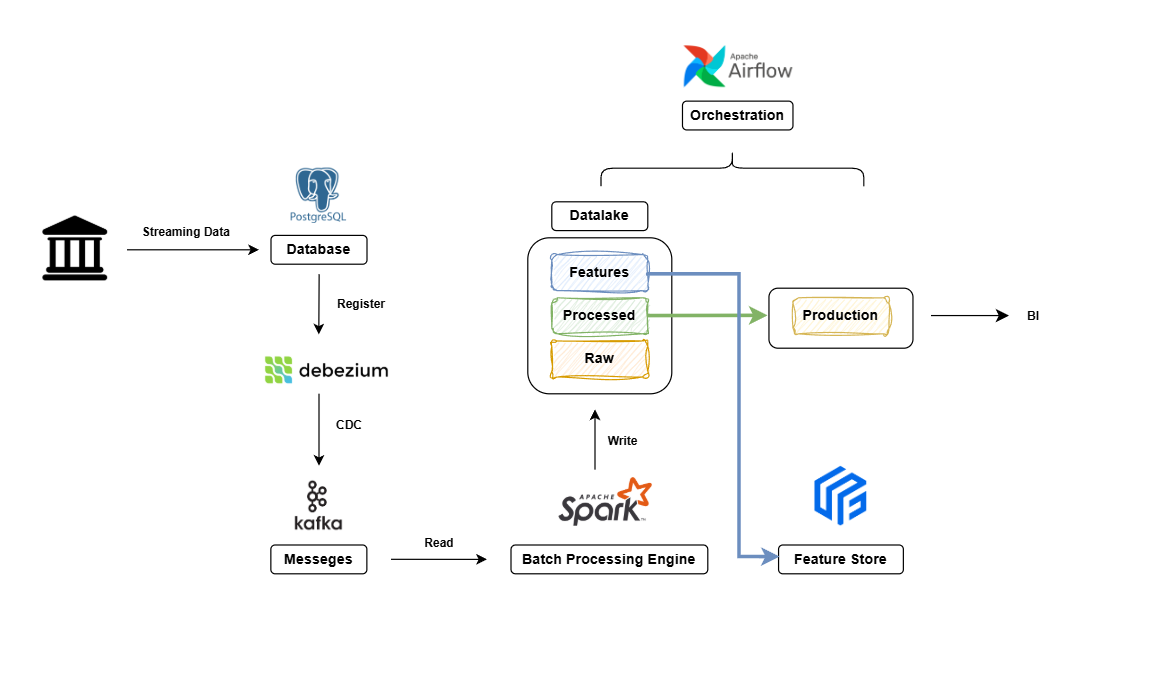
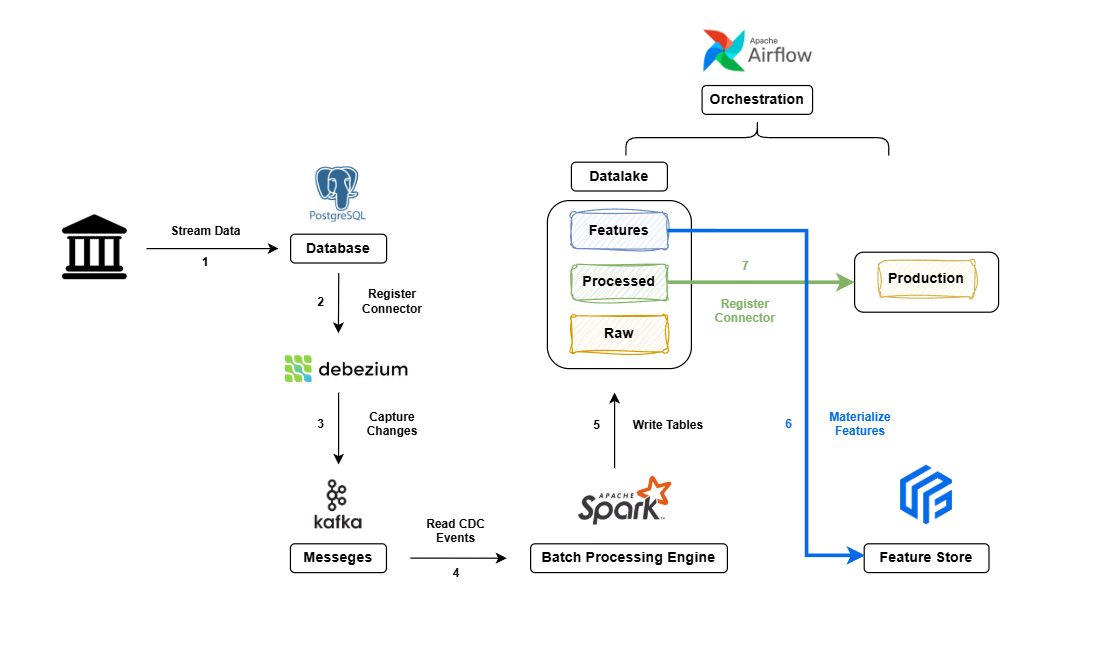
Update new data flow and fixing feature store

diff --git a/scripts/3_2_fs_get_features.py b/scripts/3_2_fs_get_features.py
@@ -4,11 +4,14 @@ from pathlib import Path
 import pandas as pd
 from utils import init_spark
 
+# Init Spark session
+spark = init_spark("Feast_Demo")
+
 # Initialize feature store (only once)
 repo_path = Path(os.getcwd()).resolve().parent / "feature_store"
 fs = FeatureStore(repo_path=repo_path)
 
-# Example 1: Get online features and then convert to pandas DataFrame
+# Example 1: Get online features
 features = fs.get_online_features(
     features=[
         "customer_features:num_transactions_l1w", 
@@ -20,10 +23,12 @@ features = fs.get_online_features(
 
 print(pd.DataFrame(features))
 
+# Convert the online features to a Spark DataFrame
+spark_online_df = spark.createDataFrame(pd.DataFrame(features))
+spark_online_df.show()
 
-# Example 2: Get online features and then convert to PySpark DataFrame
-spark = init_spark("Feast_Demo")
-    
+
+# Example 2: Get offline features => You need to provide event_timestamp as a feature date
 entity_pd_df = pd.DataFrame([{"user_id": "user_000066", "event_timestamp":"2025-03-18"}]) # Column event_timestamp is a feature date
 
 # Retrieve historical features using the Pandas DataFrame.
@@ -36,6 +41,8 @@ historical_features = fs.get_historical_features(
     ]
 )
 
-# Convert the historical features (which is a Pandas DataFrame) to a Spark DataFrame.
-spark_df = spark.createDataFrame(historical_features.to_df())
-spark_df.show()
+print(historical_features.to_df())
+
+# Convert the offline features to a Spark DataFrame
+spark_offline_df = spark.createDataFrame(historical_features.to_df())
+spark_offline_df.show()

diff --git a/README.md b/README.md
@@ -18,6 +18,8 @@
 
 The objective of this project is to build a data processing pipeline that supports both batch and streaming data ingestion. The data used in this project is a simplified version of transaction data commonly used in banking
 
+<img src="images/transaction-data-flow.png" alt="Airflow Setup" width="1000"/>
+
 ## Approach & Concept
 
 The data processing flow consists of multiple layers:
@@ -66,8 +68,6 @@ The data processing flow consists of multiple layers:
 7.  **Serving (Optional)**
     *   BI Tool for Dashboarding (Using Trino)
     *   Feature Store with Feast
-
-    <img src="images/transaction-data-flow.png" alt="Airflow Setup" width="1000"/>
 
 ## Quickstart
 
